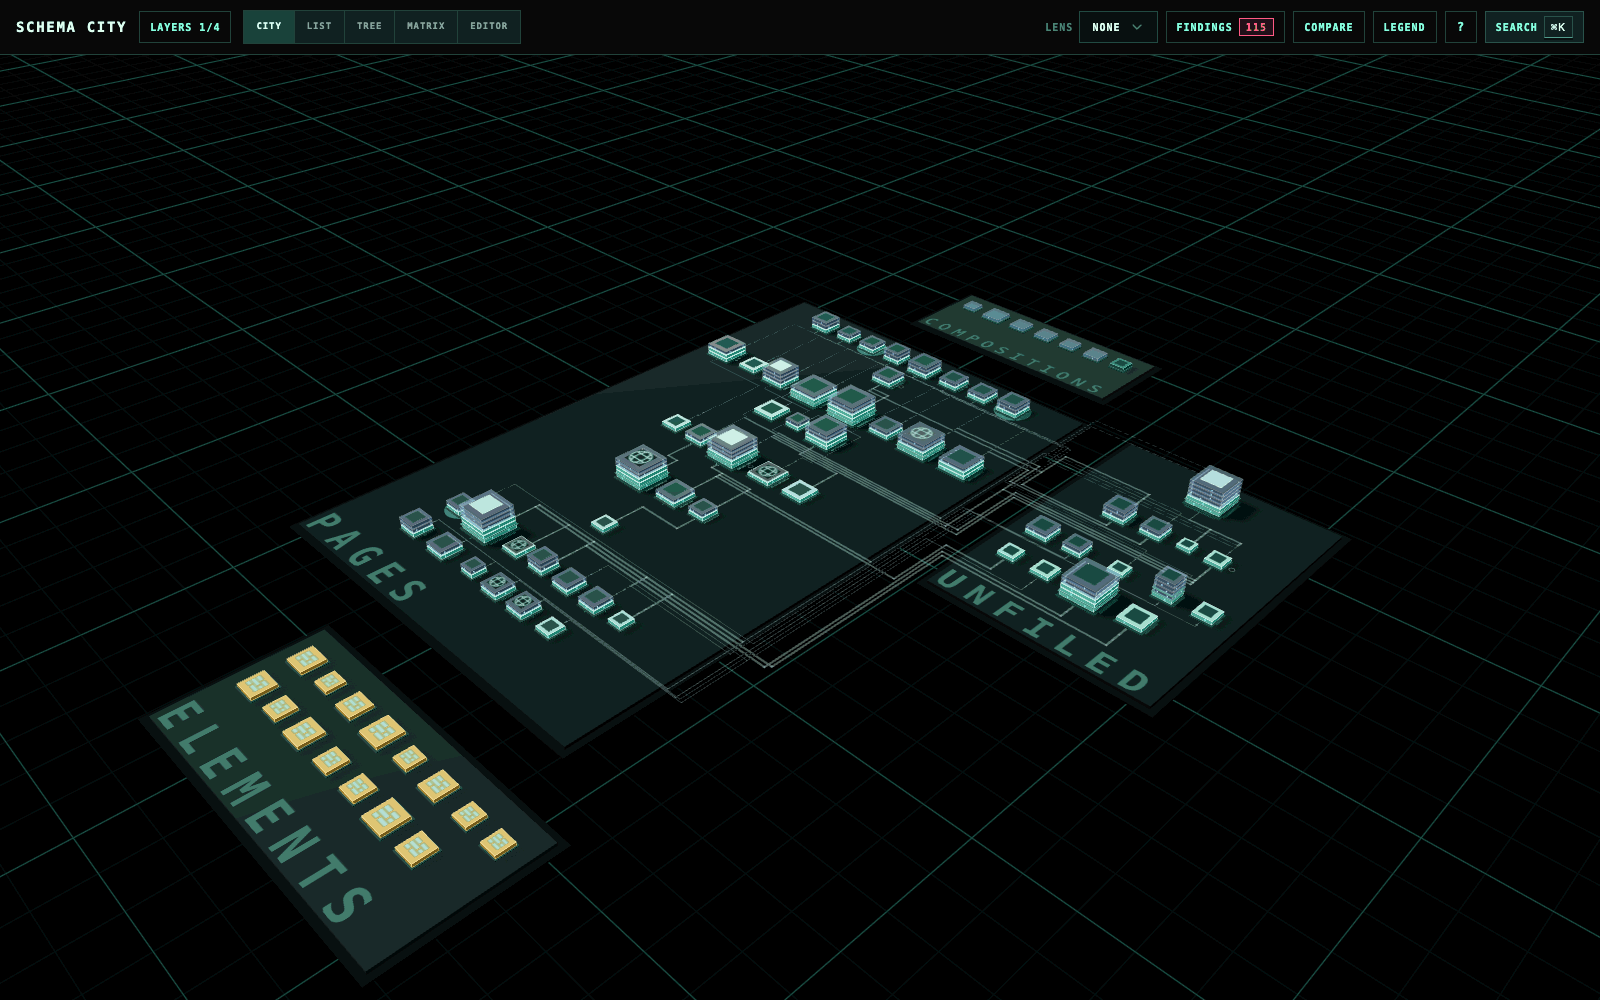
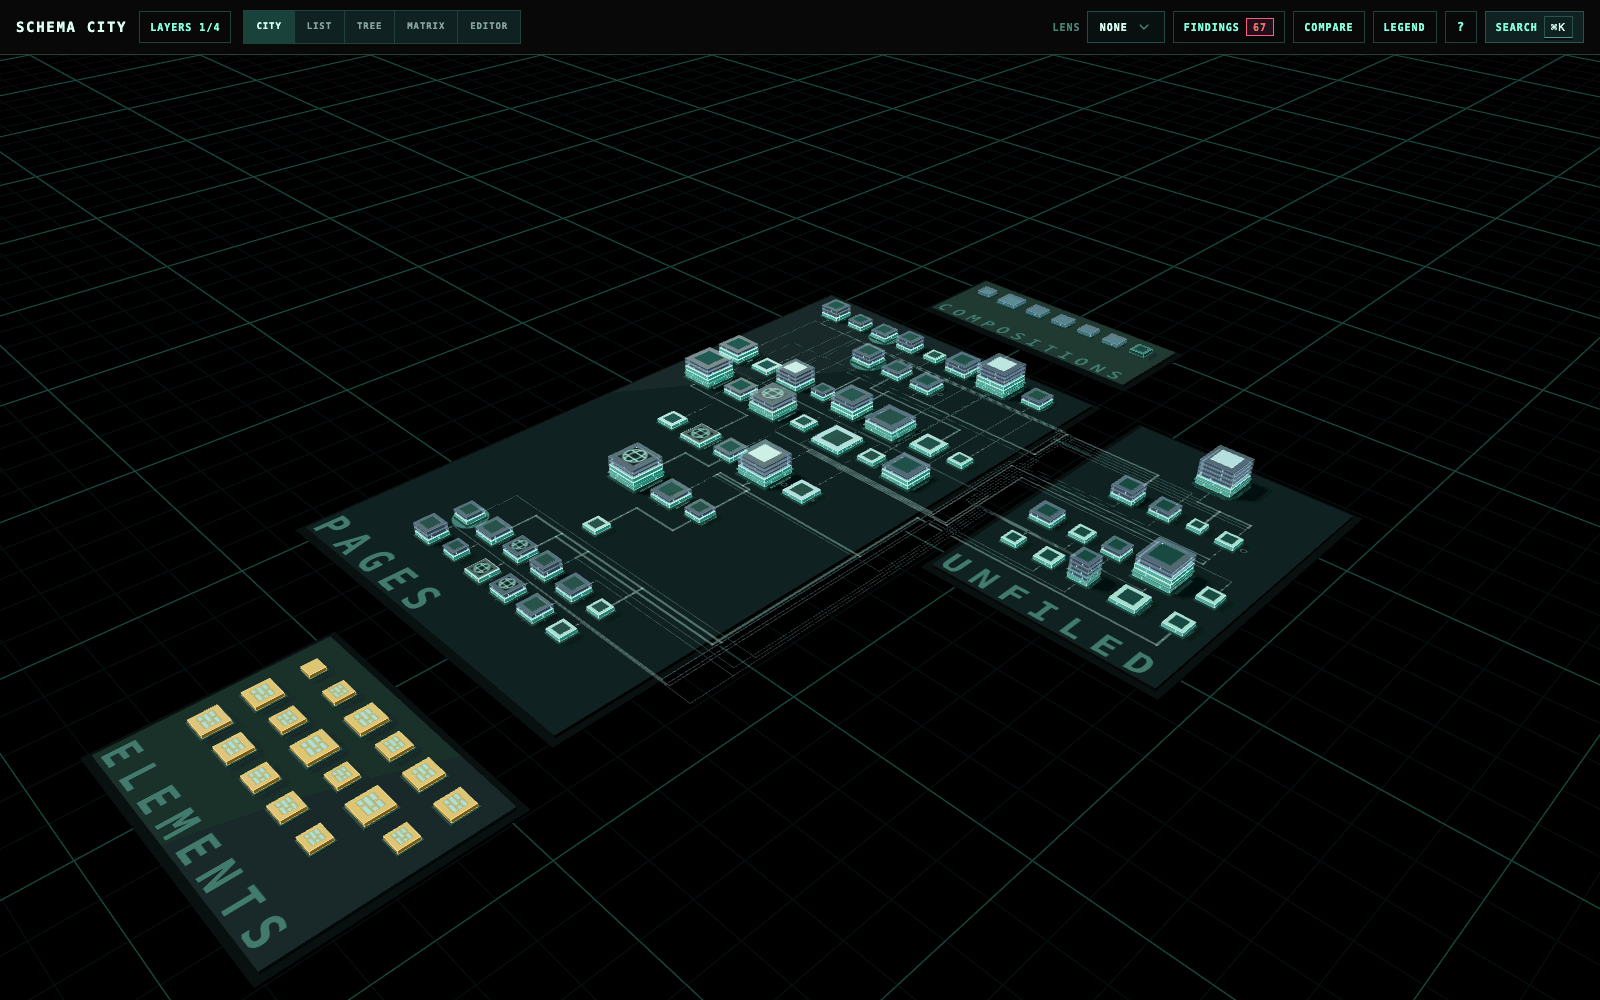
docs: refresh screenshots for the grouped findings, new checks and inspector

diff --git a/README.md b/README.md
@@ -10,7 +10,7 @@ it does not change your schema or content.
 
 ![The city overview with Pages, Elements, Compositions and Unfiled districts and faint structure connections.](https://raw.githubusercontent.com/thebuilder/umbraco-schema-city/main/docs/screenshots/city.png)
 
-The screenshots use the included demo schema with 78 types and deliberately planted problems.
+The screenshots use the included demo schema with 86 types and deliberately planted problems.
 They show the standalone client, without the surrounding Umbraco backoffice.
 
 ## Try it locally
@@ -115,7 +115,7 @@ headless by design, and on a type already reported as unused.
   ones included.
 - Empty block: an Element Type offered as a content block that has no properties.
 
-![Findings filtered to dead ends, duplicate aliases, broken blocks, empty types and complexity checks.](https://raw.githubusercontent.com/thebuilder/umbraco-schema-city/main/docs/screenshots/findings.png)
+![Findings grouped by kind with broken blocks and duplicate aliases first, each row naming its own evidence.](https://raw.githubusercontent.com/thebuilder/umbraco-schema-city/main/docs/screenshots/findings.png)
 
 A finding is a reason to investigate, not an instruction to delete. An unused Document Type has
 no counted content in the usage snapshot. An unused Element Type has no configured block-editor
